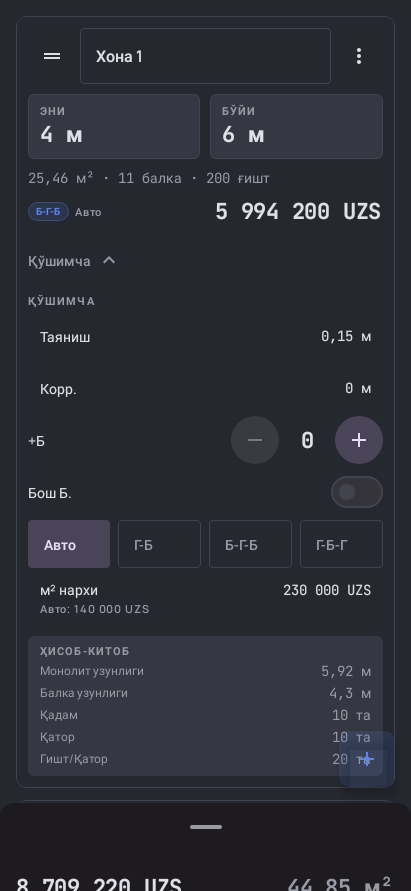
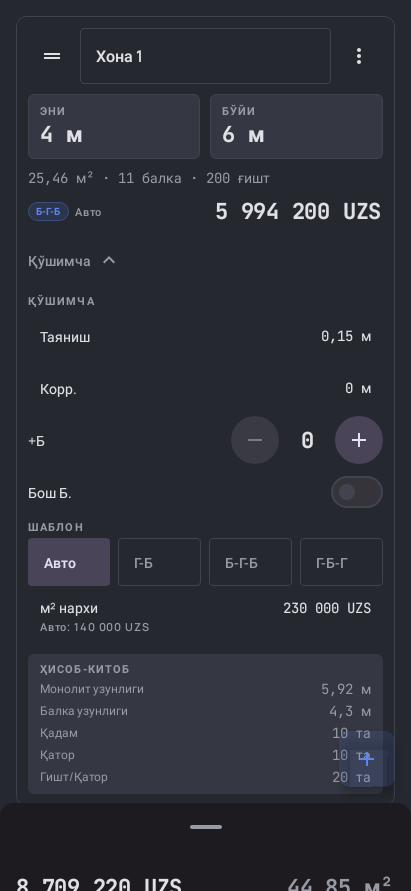
Refactor(android) · take the ViewModel out of CalculatorScreen, RoomCard and RoomExtras
The plan specified RoomExtras(row, vm: CalculatorViewModel), forcing a raw
CalculatorViewModel down through CalculatorScreen and RoomCard, unlike every
other feature's *Route/*Screen split (the Route owns the ViewModel, the
Screen gets plain data and bound callbacks). RoomExtras' seven setters are
now bundled into RoomExtrasCallbacks, built once in CalculatorRoute from
vm::… references and threaded through RoomCard/RoomExtras like every other
callback here. CalculatorScreen no longer references CalculatorViewModel at
all: the totals sheet it hosts (TotalsSheet.kt, left untouched — another
review is reading it) is now handed in by CalculatorRoute as a
totalsSheetContent slot instead of being built inside the screen. This also
finishes the previous commit's asTierMoney -> tierPriceMoney move for
RoomExtras' own call site.

CalculatorScreenshotTest simplifies to match: RoomCard/RoomExtras get plain
no-op callbacks like every sibling screenshot test; the vm it still builds
exists only to satisfy TotalsSheet's own signature via totalsSheetContent.

Also labels the «Шаблон» pattern-chip row with calc_field_pattern, the one
declared-but-unused string from the same review — every other row in
«Қўшимча» already labels itself, this was the only exception. Re-recorded
the two "extras" Roborazzi baselines the label moves; the "rooms" and
totals-sheet baselines are untouched (no room's card is expanded there).

diff --git a/android/feature/calculator/src/main/kotlin/uz/etalon/crm/feature/calculator/RoomExtras.kt b/android/feature/calculator/src/main/kotlin/uz/etalon/crm/feature/calculator/RoomExtras.kt
@@ -26,12 +26,12 @@ import uz.etalon.crm.core.calc.Pattern
 import uz.etalon.crm.core.calc.SlabRow
 import uz.etalon.crm.core.calc.autoPickedRate
 import uz.etalon.crm.core.calc.money
+import uz.etalon.crm.core.calc.tierPriceMoney
 import uz.etalon.crm.core.designsystem.components.CountStepper
 import uz.etalon.crm.core.designsystem.components.MoneyText
 import uz.etalon.crm.core.designsystem.components.NumericKeypadSheet
 import uz.etalon.crm.core.designsystem.components.SectionLabel
 import uz.etalon.crm.core.designsystem.theme.EtalonType
-import uz.etalon.crm.core.model.Money
 import uz.etalon.crm.core.ui.format.formatCount
 import uz.etalon.crm.core.ui.format.formatMeters
 import uz.etalon.crm.core.ui.format.formatMoney
@@ -41,28 +41,33 @@ import uz.etalon.crm.core.ui.format.formatMoney
  *  docked ЭНИ/БЎЙИ walk [CalculatorViewModel.openKeypad] drives on the collapsed card. */
 private enum class ExtrasKeypadField { BEARING, CORRECTION }
 
-/**
- * [autoPickedRate] and every [uz.etalon.crm.core.calc.M2_OVERRIDE_TIERS] price are always a
- * whole-UZS figure straight out of the engine's tier tables — never a fraction of a tiyin — so
- * routing it through [Money.parse] (the same public conversion the rest of the app uses for a
- * server decimal string) is exact. `:core:calc`'s own `moneyOf` does the equivalent job but is
- * `internal` to that module on purpose (see its KDoc); this is the boundary-respecting way to
- * render one of its raw `Double`s as [Money] from a feature module.
- */
-internal fun Double.asTierMoney(): Money = Money.parse(toLong().toString())
-
 /** Parses the keypad's comma-decimal text the same way [CalculatorViewModel.commitKeypad] does:
  *  an empty or unparsable pad commits as `0.0` rather than leaving the field untouched. */
 private fun parseKeypadValue(text: String): Double = text.replace(',', '.').toDoubleOrNull() ?: 0.0
 
 /**
+ * The seven room-level engine-input setters «Қўшимча» needs — bundled into one holder so
+ * [RoomCard]/[RoomExtras] take a single parameter instead of seven, rather than a raw
+ * [CalculatorViewModel] reaching this deep: every other feature's `*Screen` is plain data in,
+ * plain callbacks out, with the ViewModel staying behind in its `*Route`. Built once in
+ * [CalculatorRoute] from `vm::…` references.
+ */
+data class RoomExtrasCallbacks(
+    val onExtraBeams: (id: String, n: Int) -> Unit,
+    val onBearing: (id: String, v: Double) -> Unit,
+    val onCorrection: (id: String, v: Double) -> Unit,
+    val onForceStartBeam: (id: String, on: Boolean) -> Unit,
+    val onPattern: (id: String, p: Pattern?) -> Unit,
+    val onApplyRateOverride: (id: String, price: Double, reason: String) -> Unit,
+    val onClearRateOverride: (id: String) -> Unit,
+)
+
+/**
  * «Қўшимча»: the seven remaining engine inputs, split from the engine's own read-only working-out
- * underneath them — never mixed, per the design. [vm] is called directly rather than threaded back
- * up through a wall of callbacks: this panel alone needs nine of them, and only one room's panel
- * is ever open at a time.
+ * underneath them — never mixed, per the design.
  */
 @Composable
-fun RoomExtras(row: SlabRow, vm: CalculatorViewModel) {
+fun RoomExtras(row: SlabRow, callbacks: RoomExtrasCallbacks) {
     val r = row.result
     var keypadField by remember(row.id) { mutableStateOf<ExtrasKeypadField?>(null) }
     var showRateSheet by remember(row.id) { mutableStateOf(false) }
@@ -84,7 +89,7 @@ fun RoomExtras(row: SlabRow, vm: CalculatorViewModel) {
             CountStepper(
                 label = stringResource(R.string.calc_field_extra_beams),
                 value = row.extraBeams,
-                onChange = { vm.setExtraBeams(row.id, it) },
+                onChange = { callbacks.onExtraBeams(row.id, it) },
             )
             Row(
                 Modifier.fillMaxWidth().heightIn(min = 48.dp),
@@ -92,24 +97,25 @@ fun RoomExtras(row: SlabRow, vm: CalculatorViewModel) {
                 horizontalArrangement = Arrangement.SpaceBetween,
             ) {
                 Text(stringResource(R.string.calc_field_start_beam), style = MaterialTheme.typography.bodyMedium)
-                Switch(checked = row.forceStartBeam, onCheckedChange = { vm.setForceStartBeam(row.id, it) })
+                Switch(checked = row.forceStartBeam, onCheckedChange = { callbacks.onForceStartBeam(row.id, it) })
             }
+            SectionLabel(stringResource(R.string.calc_field_pattern))
             Row(Modifier.fillMaxWidth(), horizontalArrangement = Arrangement.spacedBy(8.dp)) {
                 PatternChip(
                     stringResource(R.string.calc_pattern_auto), row.patternOverride == null,
-                    { vm.setPattern(row.id, null) }, Modifier.weight(1f),
+                    { callbacks.onPattern(row.id, null) }, Modifier.weight(1f),
                 )
                 PatternChip(
                     stringResource(R.string.calc_pattern_gb), row.patternOverride == Pattern.GB,
-                    { vm.setPattern(row.id, Pattern.GB) }, Modifier.weight(1f),
+                    { callbacks.onPattern(row.id, Pattern.GB) }, Modifier.weight(1f),
                 )
                 PatternChip(
                     stringResource(R.string.calc_pattern_bgb), row.patternOverride == Pattern.BGB,
-                    { vm.setPattern(row.id, Pattern.BGB) }, Modifier.weight(1f),
+                    { callbacks.onPattern(row.id, Pattern.BGB) }, Modifier.weight(1f),
                 )
                 PatternChip(
                     stringResource(R.string.calc_pattern_gbg), row.patternOverride == Pattern.GBG,
-                    { vm.setPattern(row.id, Pattern.GBG) }, Modifier.weight(1f),
+                    { callbacks.onPattern(row.id, Pattern.GBG) }, Modifier.weight(1f),
                 )
             }
             if (r != null) {
@@ -130,7 +136,7 @@ fun RoomExtras(row: SlabRow, vm: CalculatorViewModel) {
                     }
                     if (row.m2PriceOverride) {
                         Text(
-                            stringResource(R.string.calc_rate_auto, formatMoney(autoPickedRate(row).asTierMoney())),
+                            stringResource(R.string.calc_rate_auto, formatMoney(tierPriceMoney(autoPickedRate(row)))),
                             style = MaterialTheme.typography.labelSmall,
                             color = MaterialTheme.colorScheme.onSurfaceVariant,
                         )
@@ -173,8 +179,8 @@ fun RoomExtras(row: SlabRow, vm: CalculatorViewModel) {
             onConfirm = { text ->
                 val value = parseKeypadValue(text)
                 when (field) {
-                    ExtrasKeypadField.BEARING -> vm.setBearing(row.id, value)
-                    ExtrasKeypadField.CORRECTION -> vm.setCorrection(row.id, value)
+                    ExtrasKeypadField.BEARING -> callbacks.onBearing(row.id, value)
+                    ExtrasKeypadField.CORRECTION -> callbacks.onCorrection(row.id, value)
                 }
                 keypadField = null
             },
@@ -186,8 +192,8 @@ fun RoomExtras(row: SlabRow, vm: CalculatorViewModel) {
         RateOverrideSheet(
             row = row,
             onDismiss = { showRateSheet = false },
-            onApply = { price, reason -> vm.applyRateOverride(row.id, price, reason); showRateSheet = false },
-            onClear = { vm.clearRateOverride(row.id); showRateSheet = false },
+            onApply = { price, reason -> callbacks.onApplyRateOverride(row.id, price, reason); showRateSheet = false },
+            onClear = { callbacks.onClearRateOverride(row.id); showRateSheet = false },
         )
     }
 }

diff --git a/android/feature/calculator/src/main/kotlin/uz/etalon/crm/feature/calculator/CalculatorScreen.kt b/android/feature/calculator/src/main/kotlin/uz/etalon/crm/feature/calculator/CalculatorScreen.kt
@@ -4,6 +4,7 @@ import androidx.compose.foundation.background
 import androidx.compose.foundation.layout.Arrangement
 import androidx.compose.foundation.layout.Box
 import androidx.compose.foundation.layout.Column
+import androidx.compose.foundation.layout.ColumnScope
 import androidx.compose.foundation.layout.PaddingValues
 import androidx.compose.foundation.layout.fillMaxSize
 import androidx.compose.foundation.layout.fillMaxWidth
@@ -35,15 +36,17 @@ import uz.etalon.crm.core.designsystem.components.NumericKeypad
  * The room list, docked directly above the keypad rather than a `ModalBottomSheet` — see
  * `NumericKeypadSheet.kt`'s KDoc for why — with the totals sheet ([TotalsSheet]) as a second,
  * PERSISTENT bottom sheet beneath it (`BottomSheetScaffold`, never `Hidden` — see
- * `TotalsSheet.kt`'s KDoc). The screen renders [CalculatorUiState] and sends events back through
- * the callbacks; it computes nothing itself — every figure a room card or the totals sheet shows
- * came off [CalculatorViewModel] already.
+ * `TotalsSheet.kt`'s KDoc). [totalsSheetContent] is that sheet's content, handed in by the caller
+ * rather than built here: this screen carries no `CalculatorViewModel` of its own, matching every
+ * other feature's `*Route`/`*Screen` split — only [CalculatorRoute] knows about the ViewModel.
+ * The screen renders [CalculatorUiState] and sends events back through the callbacks; it computes
+ * nothing itself — every figure a room card shows came off the engine already.
  */
 @OptIn(ExperimentalMaterial3Api::class)
 @Composable
 fun CalculatorScreen(
     s: CalculatorUiState,
-    vm: CalculatorViewModel,
+    roomCallbacks: RoomExtrasCallbacks,
     onAddRoom: () -> Unit,
     onDuplicateRoom: (String) -> Unit,
     onDeleteRoom: (String) -> Unit,
@@ -53,6 +56,7 @@ fun CalculatorScreen(
     onOpenField: (String, KeypadTarget.Field) -> Unit,
     onKeypadValue: (String) -> Unit,
     onKeypadConfirm: () -> Unit,
+    totalsSheetContent: @Composable ColumnScope.() -> Unit,
 ) {
     val listState = rememberLazyListState()
     // Keeps the room the keypad is walking through on screen: a Кейинги from the last visible
@@ -70,7 +74,7 @@ fun CalculatorScreen(
     BottomSheetScaffold(
         scaffoldState = scaffoldState,
         sheetPeekHeight = 88.dp,
-        sheetContent = { TotalsSheet(state = s, vm = vm) {} },
+        sheetContent = totalsSheetContent,
     ) { pad ->
         Box(Modifier.fillMaxSize().padding(pad)) {
             Column(Modifier.fillMaxSize()) {
@@ -86,7 +90,7 @@ fun CalculatorScreen(
                     itemsIndexed(s.rows, key = { _, row -> row.id }) { index, row ->
                         RoomCard(
                             row = row, index = index, listState = listState,
-                            keypadTarget = s.keypad, expanded = s.expandedRowId == row.id, vm = vm,
+                            keypadTarget = s.keypad, expanded = s.expandedRowId == row.id, callbacks = roomCallbacks,
                             onNameChange = { onSetName(row.id, it) },
                             onOpenField = { field -> onOpenField(row.id, field) },
                             onToggleExpanded = { onToggleExpanded(row.id) },

diff --git a/android/feature/calculator/src/test/kotlin/uz/etalon/crm/feature/calculator/CalculatorScreenshotTest.kt b/android/feature/calculator/src/test/kotlin/uz/etalon/crm/feature/calculator/CalculatorScreenshotTest.kt
@@ -21,12 +21,21 @@ import uz.etalon.crm.core.data.SessionPricing
 import uz.etalon.crm.core.designsystem.theme.EtalonTheme
 import uz.etalon.crm.core.model.Pricing
 
-/** No screenshot here ever expands a room's card (see [state]'s `expandedRowId`), so this vm is
- *  wired through to [CalculatorScreen] purely to satisfy its signature — `RoomCard` needs one to
- *  reach `RoomExtras`' setters, but nothing in these frames ever calls into it. */
+/** [CalculatorScreen] itself carries no `CalculatorViewModel` — `RoomCard`/`RoomExtras` take a
+ *  plain [RoomExtrasCallbacks] instead. This vm exists only because `totalsSheetContent` renders
+ *  `TotalsSheet`, which still takes one (`TotalsSheet.kt`'s own signature, untouched here); nothing
+ *  in these frames ever calls into any of its methods either way. */
 private class InertSessionPricing : SessionPricing {
     override val pricing: StateFlow<Pricing?> = MutableStateFlow(null)
 }
+
+/** Every room-level callback as a no-op — no screenshot here interacts with «Қўшимча», it only
+ *  renders it (see [expandedState]). */
+private val NOOP_ROOM_CALLBACKS = RoomExtrasCallbacks(
+    onExtraBeams = { _, _ -> }, onBearing = { _, _ -> }, onCorrection = { _, _ -> },
+    onForceStartBeam = { _, _ -> }, onPattern = { _, _ -> },
+    onApplyRateOverride = { _, _, _ -> }, onClearRateOverride = {},
+)
 
 /**
  * One baseline: two priced rooms (a Б-Г-Б and a Г-Б-Г case, so both a pattern chip and a real
@@ -89,14 +98,16 @@ class CalculatorScreenshotTest {
     }
 
     private fun content(s: CalculatorUiState, dark: Boolean) {
+        val vm = CalculatorViewModel(session = InertSessionPricing(), permissions = PermissionGate { false })
         rule.setContent {
             EtalonTheme(darkTheme = dark) {
                 CalculatorScreen(
                     s = s,
-                    vm = CalculatorViewModel(session = InertSessionPricing(), permissions = PermissionGate { false }),
+                    roomCallbacks = NOOP_ROOM_CALLBACKS,
                     onAddRoom = {}, onDuplicateRoom = {}, onDeleteRoom = {}, onMoveRoom = { _, _ -> },
                     onSetName = { _, _ -> }, onToggleExpanded = {}, onOpenField = { _, _ -> },
                     onKeypadValue = {}, onKeypadConfirm = {},
+                    totalsSheetContent = { TotalsSheet(state = s, vm = vm) {} },
                 )
             }
         }

diff --git a/android/feature/calculator/src/main/kotlin/uz/etalon/crm/feature/calculator/CalculatorRoute.kt b/android/feature/calculator/src/main/kotlin/uz/etalon/crm/feature/calculator/CalculatorRoute.kt
@@ -16,9 +16,18 @@ import androidx.lifecycle.compose.collectAsStateWithLifecycle
 @Composable
 fun CalculatorRoute(onOpenOrder: (String) -> Unit, vm: CalculatorViewModel = hiltViewModel()) {
     val s by vm.state.collectAsStateWithLifecycle()
+    val roomCallbacks = RoomExtrasCallbacks(
+        onExtraBeams = vm::setExtraBeams,
+        onBearing = vm::setBearing,
+        onCorrection = vm::setCorrection,
+        onForceStartBeam = vm::setForceStartBeam,
+        onPattern = vm::setPattern,
+        onApplyRateOverride = vm::applyRateOverride,
+        onClearRateOverride = vm::clearRateOverride,
+    )
     CalculatorScreen(
         s = s,
-        vm = vm,
+        roomCallbacks = roomCallbacks,
         onAddRoom = vm::addRoom,
         onDuplicateRoom = vm::duplicateRoom,
         onDeleteRoom = vm::deleteRoom,
@@ -28,5 +37,6 @@ fun CalculatorRoute(onOpenOrder: (String) -> Unit, vm: CalculatorViewModel = hil
         onOpenField = { id, field -> vm.openKeypad(KeypadTarget(id, field)) },
         onKeypadValue = vm::setKeypadText,
         onKeypadConfirm = vm::nextField,
+        totalsSheetContent = { TotalsSheet(state = s, vm = vm) {} },
     )
 }

diff --git a/android/feature/calculator/src/main/kotlin/uz/etalon/crm/feature/calculator/RoomCard.kt b/android/feature/calculator/src/main/kotlin/uz/etalon/crm/feature/calculator/RoomCard.kt
@@ -70,7 +70,7 @@ fun RoomCard(
     listState: LazyListState,
     keypadTarget: KeypadTarget?,
     expanded: Boolean,
-    vm: CalculatorViewModel,
+    callbacks: RoomExtrasCallbacks,
     onNameChange: (String) -> Unit,
     onOpenField: (KeypadTarget.Field) -> Unit,
     onToggleExpanded: () -> Unit,
@@ -188,7 +188,7 @@ fun RoomCard(
         }
 
         if (expanded) {
-            RoomExtras(row = row, vm = vm)
+            RoomExtras(row = row, callbacks = callbacks)
         }
 
         if (!row.canPersist && row.result != null) {
